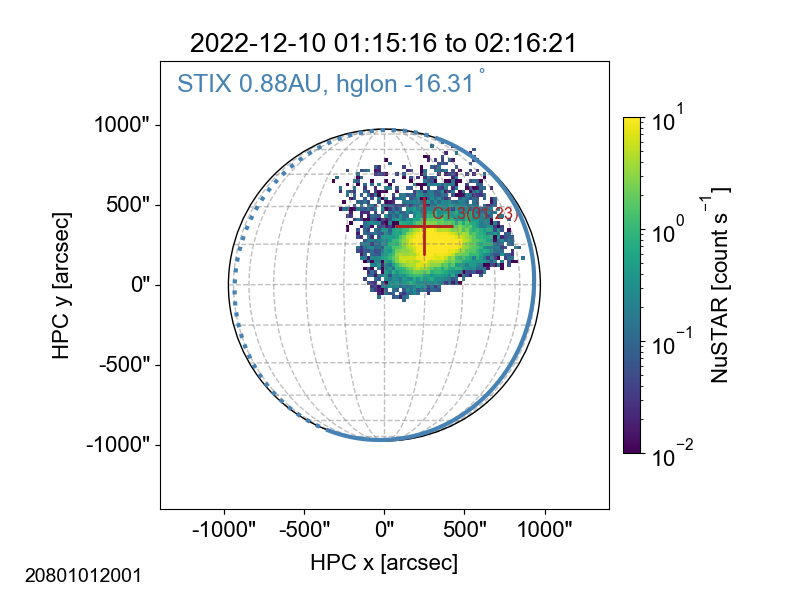
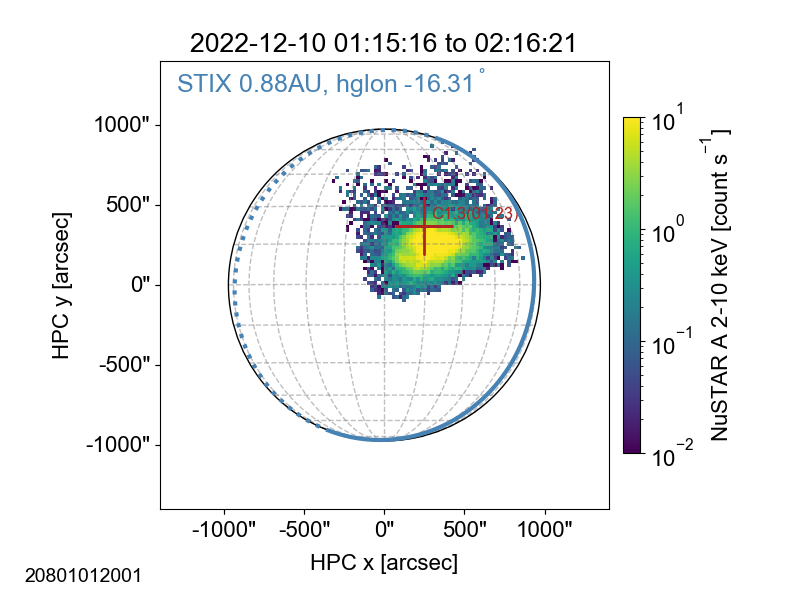
tweak to map plotting

Changed region(s): [[0.875, 0.21, 0.9062, 0.75]]

diff --git a/README.md b/README.md
@@ -1,2 +1,10 @@
 # nsx_summ
-Summary plots of NuSTAR solar obs with other X-ray data
+Summary plots of NuSTAR solar obs with other X-ray data.
+
+Some caveats:
+
+* Lightcurve for whole field of view for NuSTAR over 2-10 keV
+* Map for Nustar just FPMA, over whole pointing and 2-10 keV
+* Source of features in NuSTAR might not be in the field of view, i.e ghost rays from elsewhere on the solar disk
+* GOES flare list being used is from SSW latest events so some/many of the smaller events likely to be missing
+* STIX lightcurve is quicklook only in 4-10 keV, so smaller features might actually be there (need to create own lightcurves from spectrogram/pixel data over narrower energy range)
